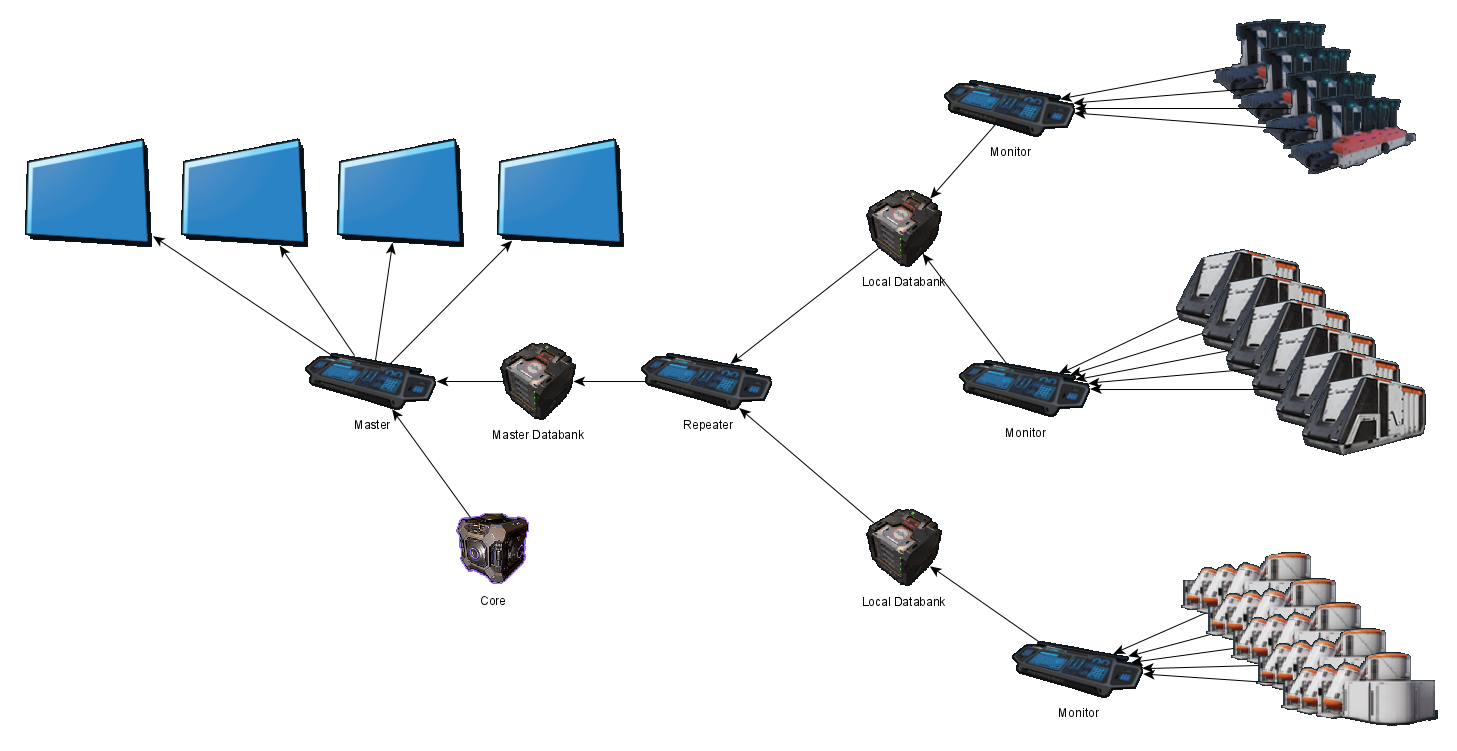
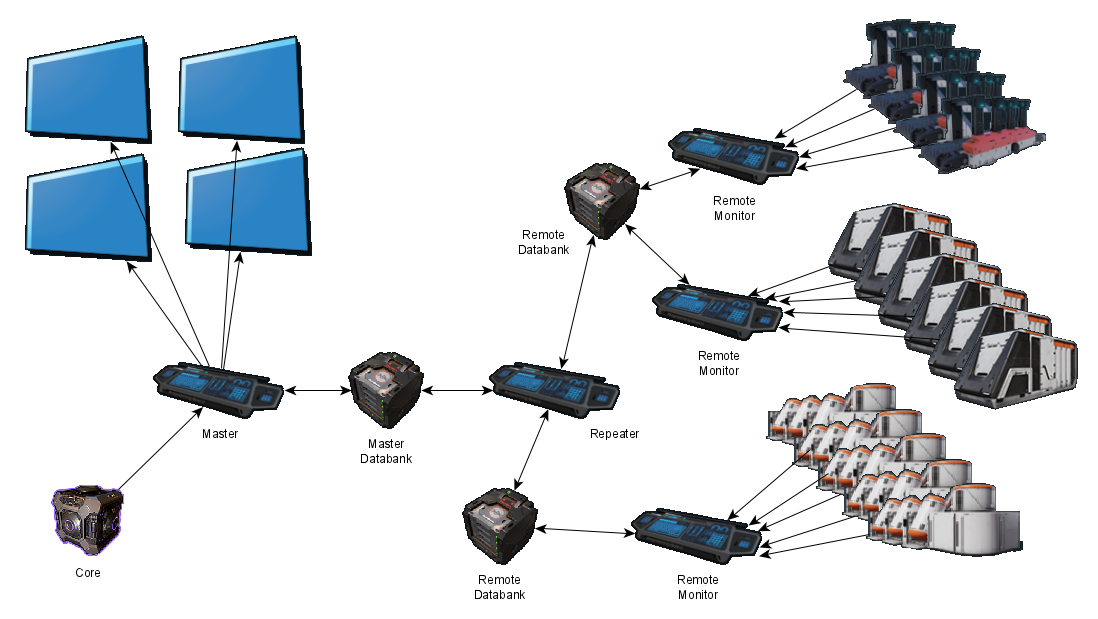
Updated readme and images

diff --git a/README.md b/README.md
@@ -18,54 +18,56 @@ Wiki has FAQ: https://github.com/SamMackrill/InDUstrious/wiki
 
 <img src="factory.png" height="320" alt="Factory">
 
-### How it works - Simple
-<img src="industrious_simple.png" height="320" alt="Diagram">
 
-### Installation - Simple
-#### Master Only
-* Add a databank
+## Installation
+* Name the containers (including hubs) as C_XXXX where XXXX is the name of what is being stored e.g. C_Bauxite
+* Name the overflow containers (including hubs) as O_XXXX where XXXX is the name of what is being stored e.g. O_Hydrogen
 * Add 4 large/medium screens, 2 x 2 layout of large screens seems best
-* Add a programming board
-* Connect the core and databank and screens to the programming board (any order, do not rename the slots)
-* Name the screens exactly:
+* Rename them exactly:
   * ContDisplay1
   * ContDisplay2
   * ProdDisplay1
   * ProdDisplay2
-* Paste the display driver config into the programming board
+
+### Installation - Simple
+#### How it works
+<img src="industrious_simple.png" height="320" alt="Diagram">
+
+#### Master Only
+* Add a databank
+* Add a programming board
+* Connect the core and databank and screens to the programming board (any order, do not rename the slots)
+* Paste the master config into the programming board
 * Add up to 9 monitor programming boards
 * Connect up to 9 industries and the databank to the monitor programming board (any order, do not rename the slots)
 * Paste the monitor config into all the monitor programming boards
-* Name the containers (including hubs) as C_XXXX where XXXX is the name of what is being stored e.g. C_Bauxite
-* Name the overflow containers (including hubs) as O_XXXX where XXXX is the name of what is being stored e.g. O_Hydrogen
-* Optionally name the industry machines after what they are producing
-* Optionally add a button and relays to turn eveything on at once
-* Can tweak the behaviour by right clicking the master programming board -> Advanced -> Edit Lua Parameters
 
+### Installation - Expanded
+#### How it works
+<img src="industrious.png" height="320" alt="Diagram">
+
+#### Master
+* Add a master databank
+* Add a master programming board
+* Connect the core, master databank and screens to the master programming board (any order, do not rename the slots)
+* Paste the master config into the master programming board
+#### Remote Monitor(s)
+* Add a remote databank
+* Add upto 9 programming boards
+* Connect up to 9 industries and the databank to each remote monitor programming board (any order, do not rename the slots)
+* Paste the monitor config into all the remote monitor programming boards
+#### Repeater(s)
+* Add a repeater programming board
+* Connect the repeater programming board to upto 9 remote databanks and the master databank (any order, do not rename the slots)
+* Paste the repeater config into the repeater programming board
+
+### Installation - Optional
+* Name the industry machines after what they are producing
+* Add a button and relays to turn eveything on at once
+* Tweak the behaviour by right clicking the master programming board -> Advanced -> Edit Lua Parameters
 <img src="menu.png" alt="Menu">
 <img src="settings.png" alt="Settings">
 
-### How it works - Expanded (not working yet)
-#### Expanded
-<img src="industrious.png" height="320" alt="Diagram">
-
-### Installation - Expanded
-#### Master
-* Add a databank
-* Add 4 screens
-* Add a programming board
-* Connect the core and databank and screens to the programming board
-* Paste the display driver config into the programming board
-#### Local Monitor
-* Add a databank
-* Add upto 9 programming boards
-* Connect upto 9 industries and the databank to the programming board
-* Paste the monitor config into all the programming boards
-#### Repeater(s)
-* Add a databank
-* Add a programming board
-* Connect the board to any local databanks and the master databank
-* Paste the repeater config into the programming board
 
 ## Credits
 * badman74 for initial approach: https://github.com/badman74/DU
